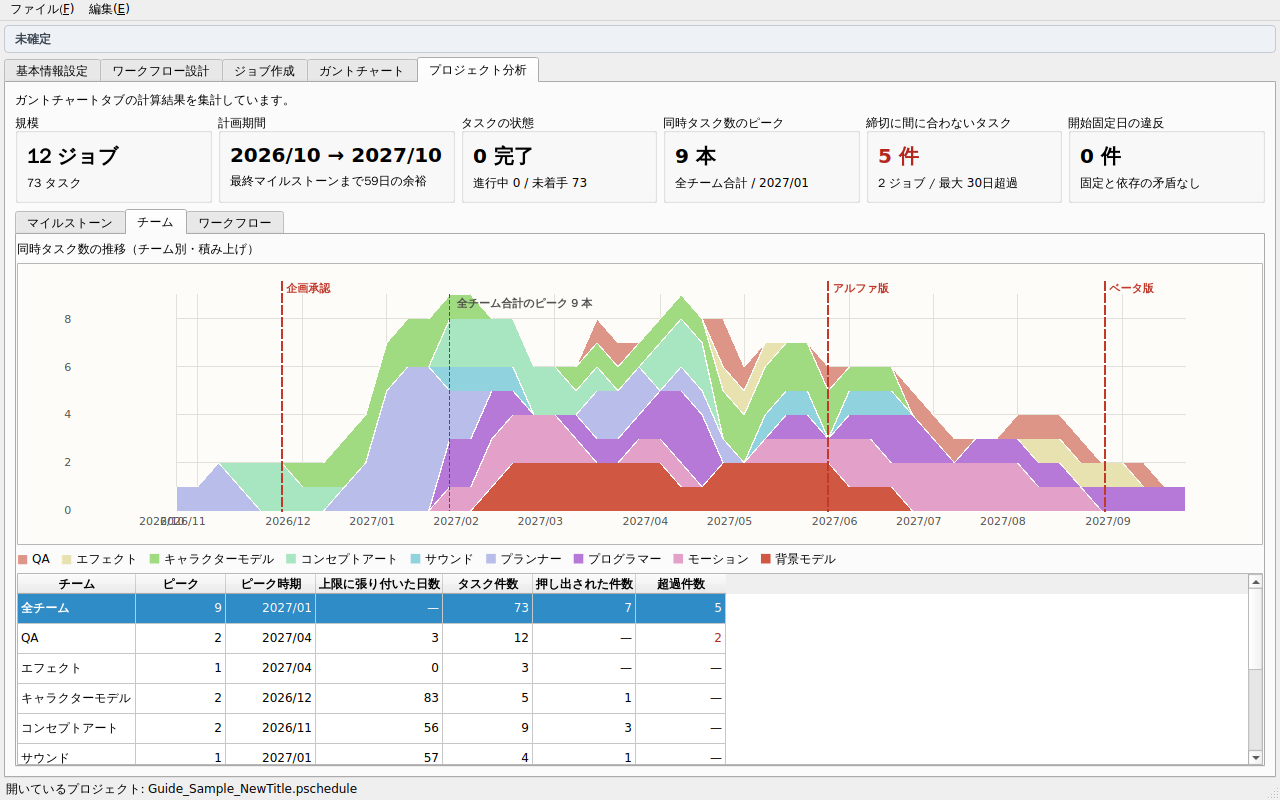
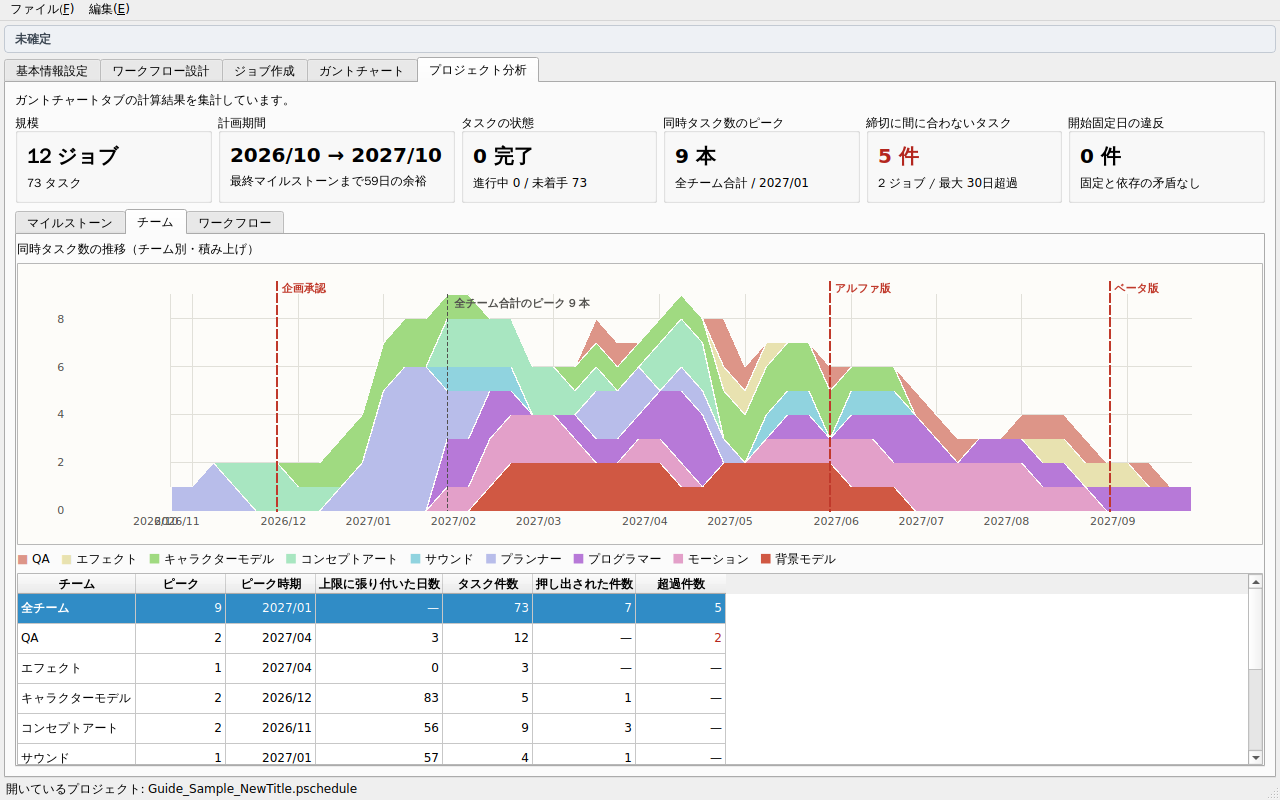
docs(user_guide): 8章「活用例」を執筆
- A 新作タイトルの制作（粗い粒度で見通しを立てて合意する）と、B アップデートの
  制作（細かい粒度で進み具合を反映して見通しを更新する）を、手順と画面で紹介する
- generate_guide_samples.py: 同じタスクへの上書きを1回にまとめて書き込む（行ごと
  置き換えるAPIのため、別々に書くと後の行が先の値を消していた）。アップデートの
  仕様作成を「仕様確定」の締切に割り当てる
- capture_screenshots.py: アップデートのサンプルを確定して撮る場面と、タスク上書きを
  広げて状態の列まで見せる場面を追加。本文で使っていない場面を外す

Claude-Session: https://claude.ai/code/session_012h8HJR22sGEB7n6794ZBWj

diff --git a/scripts/user_guide/capture_screenshots.py b/scripts/user_guide/capture_screenshots.py
@@ -94,6 +94,17 @@ def _select_job(name):
     return setup
 
 
+def _select_job_wide(name):
+    """_select_job に加えて、右側（タスク上書き）を広げる。状態・開始固定日の列まで見せたいときに使う。"""
+    select = _select_job(name)
+
+    def setup(app, window):
+        select(app, window)
+        window.tab_jobs.main_splitter.setSizes([380, 880])
+        _settle(app)
+    return setup
+
+
 def _select_workflow(name, view=0):
     """ワークフロー設計タブで、指定したワークフローを選び、ビュー（0=ノード、1=テーブル）を切り替える。"""
     def setup(app, window):
@@ -319,6 +330,16 @@ def _plan_replanned(app, window):
     _settle(app)
 
 
+def _update_plan_sample(tmp):
+    """8章B用に、アップデートのサンプルを別のコピーとして開く（確定して使う）。"""
+    path = Path(tmp) / "冬のアップデートの制作.pschedule"
+    shutil.copy(UPDATE, path)
+    return path
+
+
+_update_plan_sample.key = ("update_plan",)
+
+
 def _replan_dialog(app, window):
     dialog = ReplanDialog(window.db, today=PLAN_TODAY, parent=window)
     return dialog
@@ -435,8 +456,6 @@ SHOTS = [
     ("workflows_table", NEW_TITLE, _select_workflow("キャラクター制作", view=1)),
     ("workflows_cutscene", NEW_TITLE, _select_workflow("カットシーン制作", view=0)),
     ("jobs_opening", NEW_TITLE, _job_with_dependencies("オープニング")),
-    ("update_jobs_tab", UPDATE, _select_job("新キャラクター")),
-    ("update_gantt_tab", UPDATE, _show_tab(TAB_GANTT, needs_schedule=True)),
     ("tutorial_1_basic_info", _tutorial(1), _show_tab(TAB_BASIC_INFO)),
     ("tutorial_2_task_dialog", _tutorial(1.5), _task_dialog),
     ("tutorial_2_workflow", _tutorial(2), _show_tab(TAB_WORKFLOWS)),
@@ -449,6 +468,10 @@ SHOTS = [
     ("gantt_editor", _tutorial(4), _gantt_editor("新アイテム", "アート制作")),
     ("tutorial_5_gantt", _tutorial(5), _show_tab(TAB_GANTT, needs_schedule=True)),
     ("gantt_legend", _bar_legend, _show_tab(TAB_GANTT, needs_schedule=True)),
+    # 8章B アップデートの制作（確定してから、進み具合を記録した状態を見せる）
+    ("update_plan_gantt", _update_plan_sample, _plan_confirm),
+    ("update_plan_jobs", _update_plan_sample, _select_job_wide("新キャラクター")),
+    ("update_plan_analysis", _update_plan_sample, _analysis_section(0)),
     # 7章 配置コントロールの効果（チャートの部分だけを切り出す）
     ("placement_0", _placement_example(0), _show_tab(TAB_GANTT, needs_schedule=True), (0, 120, 1280, 560)),
     ("placement_70", _placement_example(70), _show_tab(TAB_GANTT, needs_schedule=True), (0, 120, 1280, 560)),

diff --git a/scripts/user_guide/generate_guide_samples.py b/scripts/user_guide/generate_guide_samples.py
@@ -255,6 +255,9 @@ UP_JOB_LINKS = [
 
 # 進み具合を反映した途中の状態（定例ミーティングで更新した想定）
 UP_OVERRIDES = [
+    # 各コンテンツの仕様作成は「仕様確定」までに終える
+    *[(content, "仕様作成", {"milestone_id": "仕様確定"})
+      for content in ("新キャラクター", "新ステージ", "イベントクエスト", "新アイテム")],
     ("新キャラクター", "仕様作成", {"status": "done"}),
     ("新キャラクター", "データ作成", {"status": "done"}),
     ("新キャラクター", "アート制作", {"status": "in_progress"}),
@@ -307,7 +310,12 @@ def _build(path, project, teams, milestones, holidays, workflows, templates,
     for job, depends_on in job_links:
         db.add_job_dependency_link(job_ids[job], job_ids[depends_on])
 
+    # upsert_job_task_override は行ごと置き換えるので、同じタスクへの上書きは
+    # まとめてから1回で書き込む（別々に書くと、後の行が先の行の値を消す）
+    merged = {}
     for job, task, fields in overrides:
+        merged.setdefault((job, task), {}).update(fields)
+    for (job, task), fields in merged.items():
         if "milestone_id" in fields:  # 原稿ではマイルストーンを名前で書く
             fields = {**fields, "milestone_id": milestone_ids[fields["milestone_id"]]}
         db.upsert_job_task_override(job_ids[job], task_ids[(job_workflow[job], task)], **fields)

diff --git a/docs/user_guide/ja/08_examples.md b/docs/user_guide/ja/08_examples.md
@@ -1,0 +1,124 @@
+# 活用例
+
+このツールは、計画の規模や、タスクをどこまで細かく分けるか（**粒度**）を問いません。
+この章では、ゲーム開発を題材に、使い方の異なる2つの例を紹介します。
+
+| | A. 新作タイトルの制作 | B. アップデートの制作 |
+| --- | --- | --- |
+| 規模 | 大きい（1年以上、多くのチーム） | 小さい（数週間、少人数） |
+| 粒度 | 粗い（1タスク＝数週間〜数か月） | 細かい（1タスク＝数日） |
+| 主な目的 | 全体の見通しを立て、関係者と合意する | 進み具合を反映しながら、見通しを更新する |
+
+## A. 新作タイトルの制作（大きな計画を粗い粒度で）
+
+発売までの1年以上にわたる制作を、キャラクター・背景・カットシーンといった制作物ごとに計画します。
+細かい作業まで並べるのではなく、**工程のまとまり**をタスクにして、全体の見通しを立てることに使います。
+
+### 1. 作業の流れを型にする
+
+「キャラクター制作」「背景制作」「カットシーン制作」のように、制作物の種類ごとにワークフローを作ります。
+タスクは「モデル制作」「モーション制作」のような工程の単位にし、日数は数週間〜数か月の粒度で見積もります。
+
+!!! kikan-note "粗く分けても、日数は「期間」です"
+    「モデル制作 30日」は、そのキャラクターのモデルが**着手から30営業日で仕上がる**という意味です。
+    粒度を粗くしても、作業量（工数）を見積もっているわけではありません。
+
+<figure>
+<img src="images/workflows_tab.png" alt="キャラクター制作のワークフロー">
+<figcaption>工程の単位で作ったワークフロー「キャラクター制作」</figcaption>
+</figure>
+
+### 2. 制作物をジョブとして並べる
+
+主人公・ヒロイン・魔王…、始まりの村・王都…のように、制作物ごとにジョブを作り、
+それぞれをどのマイルストーン（アルファ版・ベータ版など）までに仕上げるかと、優先度を決めます。
+似た制作物は「複製」を使うと早く作れます。
+カットシーンが登場キャラクターのモデルを待つ、といった制作物どうしの待ち合わせは、依存テンプレートと依存先ジョブで設定します。
+
+### 3. どのチームが、いつ、どれだけ混み合うかを見る
+
+プロジェクト分析タブの「チーム」で、各チームが同時に抱える作業の本数を週ごとに確かめます。
+
+<figure>
+<img src="images/analysis_team.png" alt="チームごとの同時タスク数">
+<figcaption>チームごとの同時タスク数の推移</figcaption>
+</figure>
+
+計画の初めは、チームのライン数を「**指定なし**」にしておくのがおすすめです。
+すると、グラフのピークから「この計画どおりに進めるには、各チームが同時に何本の作業を進められる必要があるか」が読み取れます。
+そのうえで、実際にはそこまで並行できないチームにだけ、ライン数の上限を設定します。
+
+!!! lines-note "ピークの本数は人数ではありません"
+    ピークが「4本」でも、4人必要という意味ではありません。
+    同時に4つの作業を並行して進められる体制が要る、という意味です。
+    実際に何人でどう分担するかは、チームの実情に合わせて判断してください。
+
+### 4. 締切に間に合わない作業を見直す
+
+ライン数の上限を入れると、締切に間に合わない作業が出てくることがあります。
+ガントチャートで赤い太枠のタスクを探し、優先度・ライン数・日数・締切のどれを見直すかを検討します
+（見直し方は「日程の決まり方」の章）。
+
+<figure>
+<img src="images/gantt_tab.png" alt="新作タイトルのガントチャート">
+<figcaption>新作タイトルのガントチャート。体験版のためにアルファ版へ前倒しした「魔王城」が間に合っていません</figcaption>
+</figure>
+
+例えば、この計画では「魔王城」をアルファ版に間に合わせようとして間に合っていません。
+「魔王城」の優先度を上げるか、背景モデルチームのライン数を増やせるか、体験版に入れる範囲を見直すか、といった選択肢を、関係者と一緒に比べられます。
+条件を変えるたびに日程がすぐに組み直されるので、その場で試しながら話し合えます。
+
+### 5. 合意したら確定し、節目ごとに見直す
+
+関係者と合意できたら、計画を確定します。
+その後は、アルファ版・ベータ版といったマイルストーンの節目や、月に一度などの区切りで計画を振り返ります。
+変更が広い範囲に及ぶときは全面再計画で組み直し、改めて合意してから確定します
+（「計画の確定と再計画」の章）。
+
+## B. アップデートの制作（小さな計画を細かい粒度で）
+
+配信中のゲームの冬のアップデートで、新キャラクター・新ステージなど数件の追加コンテンツを、数週間で制作する計画です。
+タスクを数日単位に細かく分け、**実際の進み具合を反映しながら、配信までの見通しを更新する**ことに使います。
+
+### 1. 数日単位で計画を立てて確定する
+
+「仕様作成 3日 → アート制作 8日 → 実装 5日 → 調整 3日 → テスト 4日」のように、数日単位のタスクで作業の流れを作ります。
+各コンテンツをジョブにし、配信日などの締切を決めて日程を組み立て、チームで合意したら確定します。
+
+<figure>
+<div class="annotated">
+<img src="images/update_plan_gantt.png" alt="アップデートの計画">
+<span class="pin" style="left:26.8%;top:67%">1</span>
+</div>
+<figcaption>確定したアップデートの計画</figcaption>
+</figure>
+
+<span class="pinref">1</span> の「イベントクエスト」の仕様作成は、担当プランナーが別の案件を終えてから着手する日が決まっているので、開始固定日を設定しています。
+
+### 2. 定例のミーティングで状態を記録する
+
+週に一度などの定例のミーティングで、各タスクの状態（未着手・進行中・完了）を記録します。
+状態を記録しても、確定した日程はそのままです。
+
+<figure>
+<img src="images/update_plan_jobs.png" alt="状態を記録したジョブ作成タブ">
+<figcaption>新キャラクターの状態。仕様作成とデータ作成が完了、アート制作が進行中です</figcaption>
+</figure>
+
+記録した状態は、プロジェクト分析タブの「タスクの状態」や、マイルストーンごとの完了・進行中・未着手の件数で確かめられます。
+
+<figure>
+<img src="images/update_plan_analysis.png" alt="状態の集計">
+<figcaption>プロジェクト分析タブ。完了3件、進行中2件です</figcaption>
+</figure>
+
+### 3. ずれたら実際に合わせて、見通しを更新する
+
+実際に作業を始めた日が予定とずれたタスクは、ガントチャートでバーを動かして、実際の開始日に合わせます。
+日数の見込みが変わったタスクは、日数を変えます。
+これらは変更案になるので、後ろのタスクや配信日への影響を確かめられます。
+
+- 影響が小さければ、「変更を確定」して新しい見通しとして共有します。
+- 配信日に間に合わなくなりそうなら、優先度や作業の範囲を見直して、変更案の段階で手を打ちます。
+
+このように、確定した計画と実際の進み具合を並べて見ながら、配信までの見通しを定期的に更新していきます。

diff --git a/docs/user_guide/outline.md b/docs/user_guide/outline.md
@@ -136,4 +136,4 @@
 
 1. ~~画面の自動撮影スクリプト~~（`scripts/user_guide/capture_screenshots.py`）
 2. ~~Markdown → PDF のビルドスクリプト~~（`scripts/user_guide/build_pdf.py`。手順は `README.md`）
-3. 0章から順に本文を執筆（0〜7章は執筆済み）
+3. 0章から順に本文を執筆（0〜8章は執筆済み）
